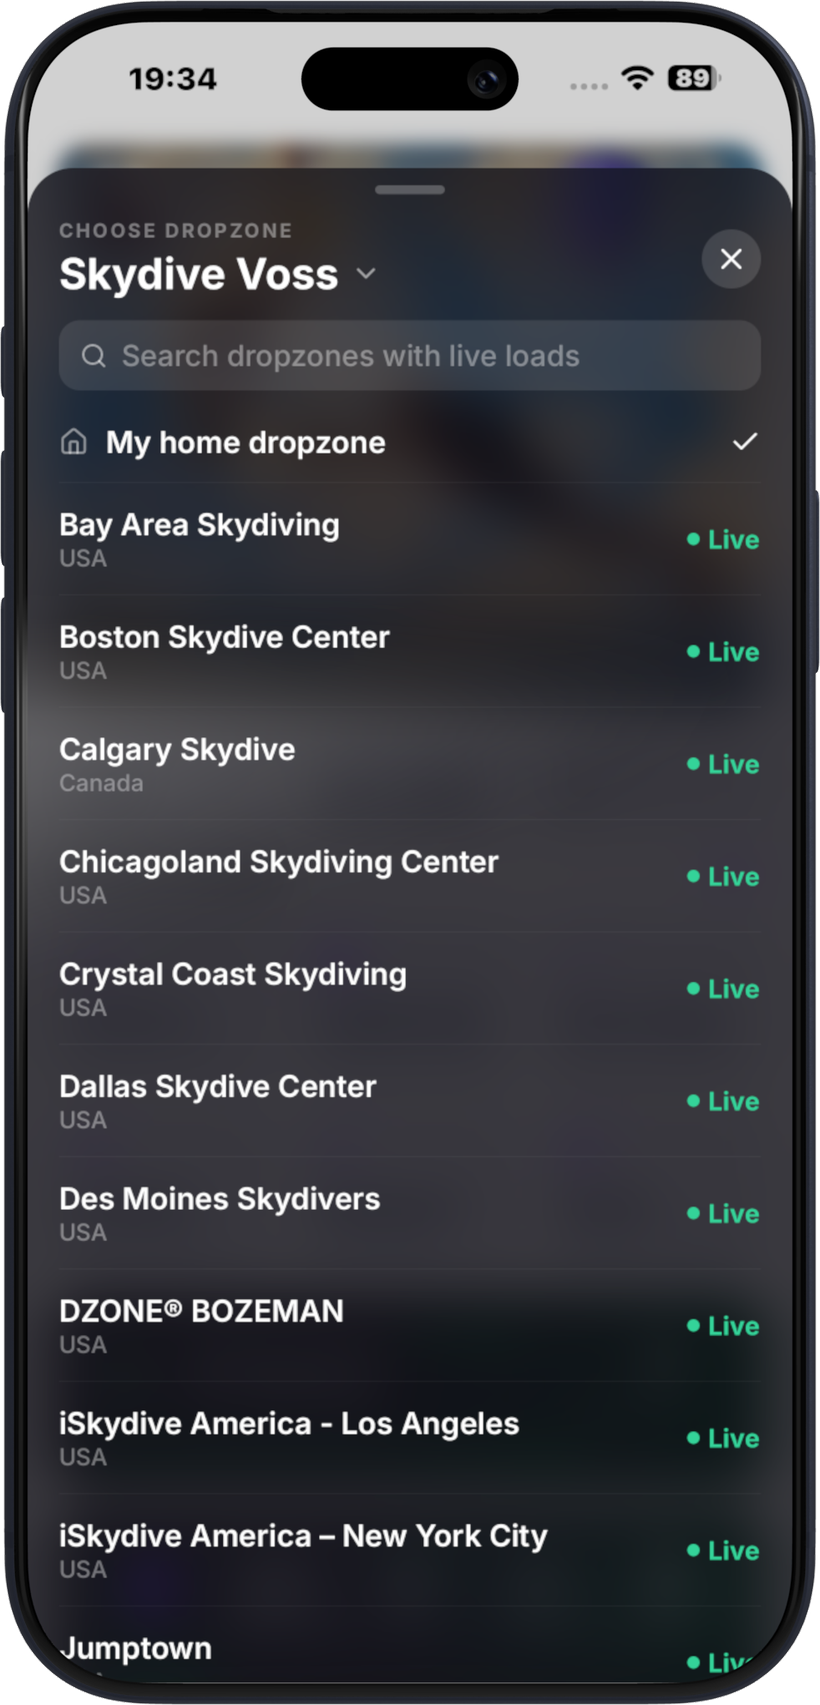
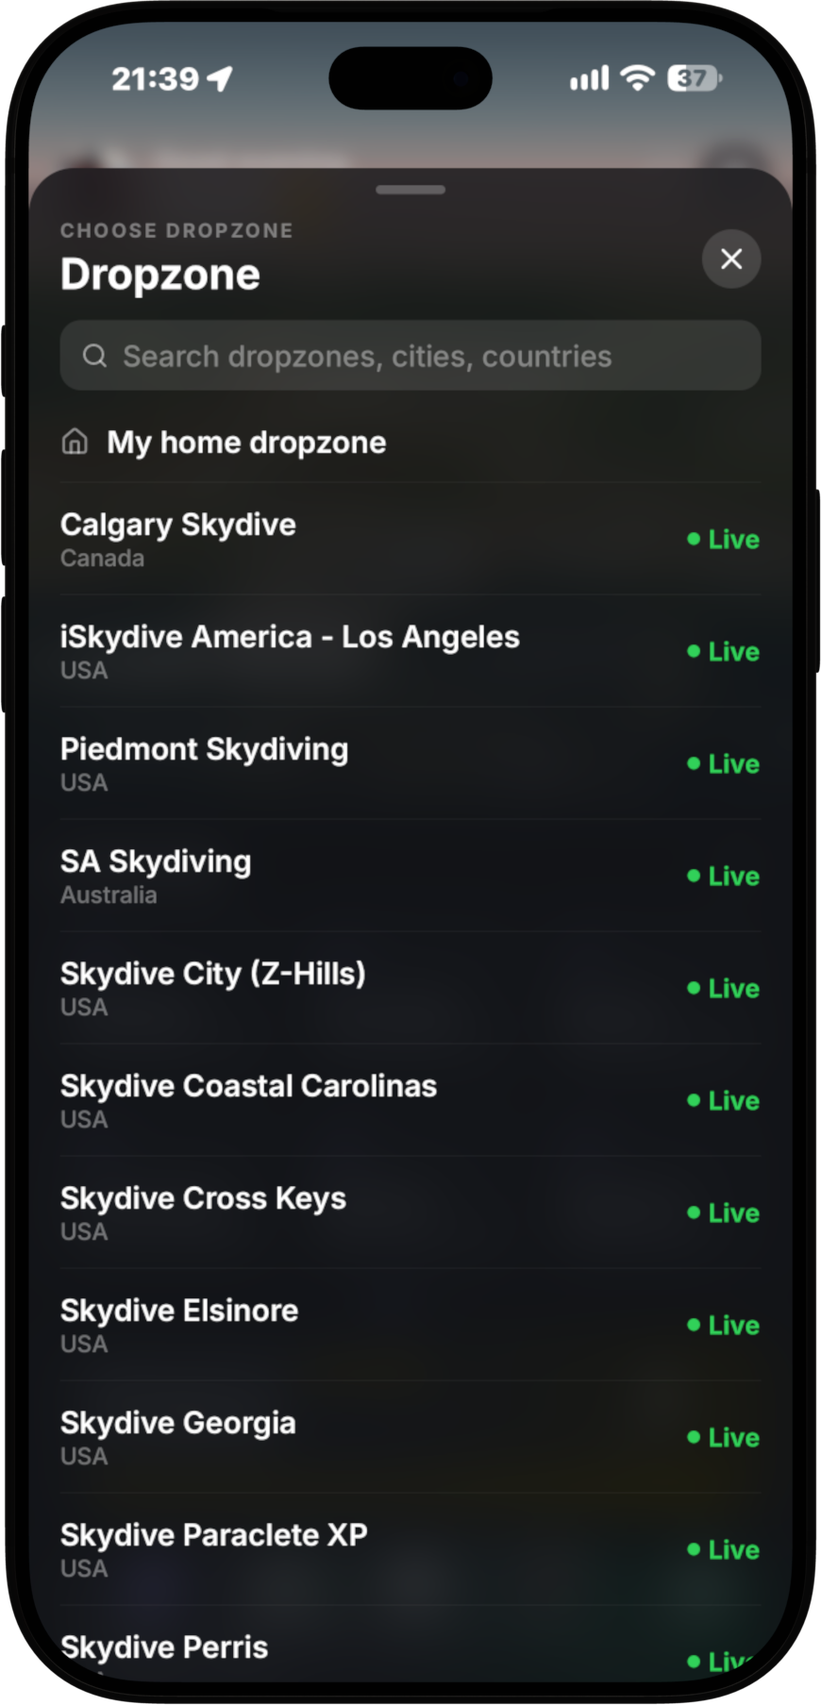
New live loads phone in carousel

diff --git a/index.html b/index.html
@@ -1216,7 +1216,7 @@ section[id], header[id], div[id] { scroll-margin-top: 96px; }
       </div>
     </div>
 
-    <img class="carousel-phone" src="/assets/carousel/phone-liveloads.png" alt="Manifest showing dropzones with live loads right now - Bay Area, Boston, Calgary, Chicagoland and more" width="820" height="1705" decoding="async">
+    <img class="carousel-phone" src="/assets/carousel/phone-liveloads.png?v=2" alt="Manifest showing dropzones with live loads right now - Calgary, Los Angeles, Z-Hills, Perris and more" width="821" height="1705" decoding="async">
   </div>
 </section>
 
